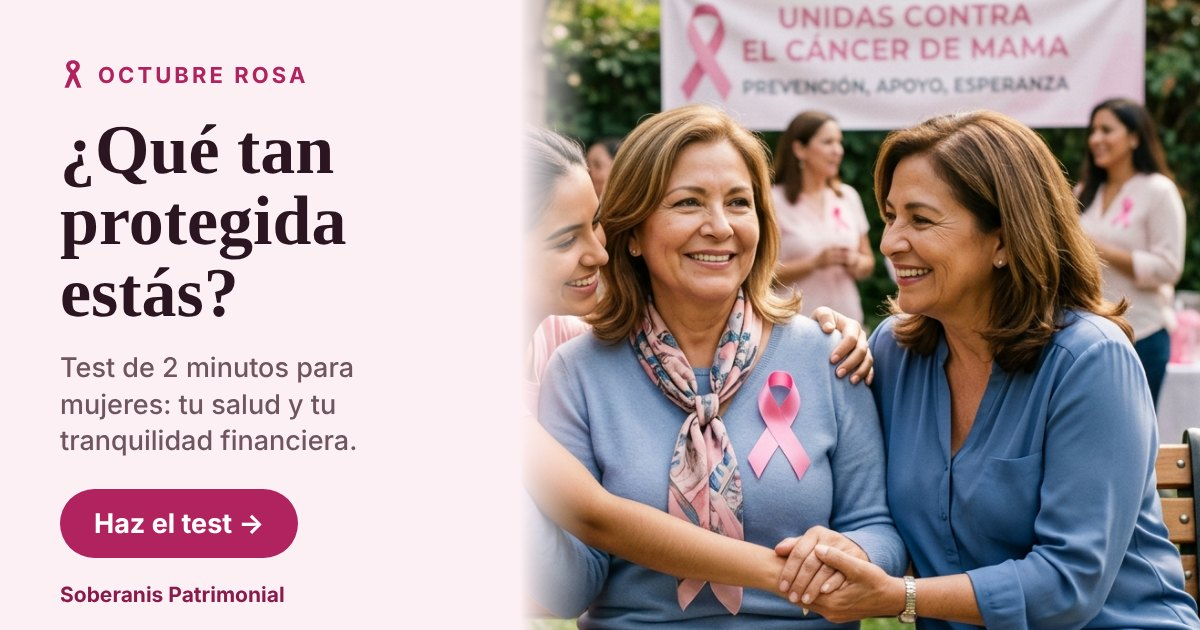
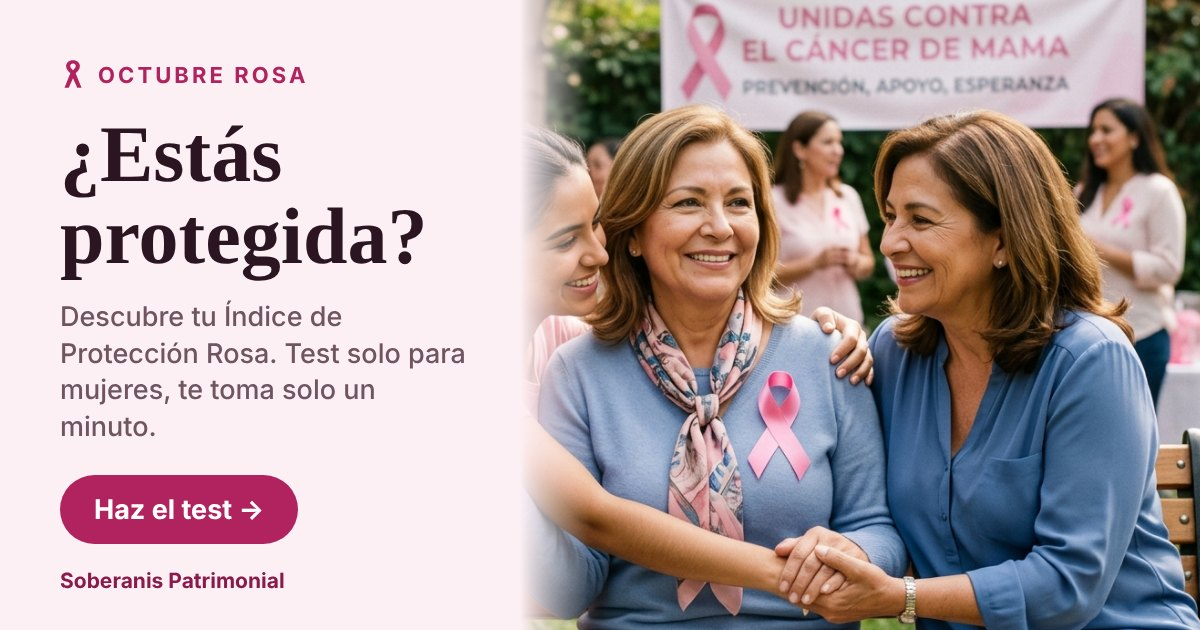
Add files via upload

diff --git a/index.html b/index.html
@@ -3,8 +3,8 @@
 <head>
 <meta charset="utf-8">
 <meta name="viewport" content="width=device-width,initial-scale=1,viewport-fit=cover">
-<title>¿Qué tan protegida estás? · Octubre Rosa</title>
-<meta name="description" content="Test de 2 minutos de Octubre Rosa: descubre tu Índice de Protección Rosa.">
+<title>¿Estás protegida? · Octubre Rosa</title>
+<meta name="description" content="Test de Octubre Rosa de solo un minuto: descubre tu Índice de Protección Rosa.">
 <meta name="theme-color" content="#b0235f">
 <link rel="canonical" href="https://yolandasoberanis.github.io/octubre-rosa/">
 <!-- Vista previa al compartir (WhatsApp, Facebook, LinkedIn, X) -->
@@ -12,8 +12,8 @@
 <meta property="og:locale" content="es_MX">
 <meta property="og:site_name" content="Soberanis Patrimonial">
 <meta property="og:url" content="https://yolandasoberanis.github.io/octubre-rosa/">
-<meta property="og:title" content="¿Qué tan protegida estás? · Test Octubre Rosa">
-<meta property="og:description" content="Test de 2 minutos: descubre tu Índice de Protección Rosa, tu salud y tu tranquilidad financiera.">
+<meta property="og:title" content="¿Estás protegida? · Test Octubre Rosa">
+<meta property="og:description" content="Descubre tu Índice de Protección Rosa: salud y tranquilidad financiera. Test solo para mujeres, te toma solo un minuto.">
 <meta property="og:image" content="https://yolandasoberanis.github.io/octubre-rosa/vista-previa-octubre-rosa.jpg">
 <meta property="og:image:secure_url" content="https://yolandasoberanis.github.io/octubre-rosa/vista-previa-octubre-rosa.jpg">
 <meta property="og:image:type" content="image/jpeg">
@@ -21,8 +21,8 @@
 <meta property="og:image:height" content="630">
 <meta property="og:image:alt" content="Mujeres unidas contra el cáncer de mama: prevención, apoyo y esperanza">
 <meta name="twitter:card" content="summary_large_image">
-<meta name="twitter:title" content="¿Qué tan protegida estás? · Test Octubre Rosa">
-<meta name="twitter:description" content="Test de 2 minutos: descubre tu Índice de Protección Rosa.">
+<meta name="twitter:title" content="¿Estás protegida? · Test Octubre Rosa">
+<meta name="twitter:description" content="Descubre tu Índice de Protección Rosa. Te toma solo un minuto.">
 <meta name="twitter:image" content="https://yolandasoberanis.github.io/octubre-rosa/vista-previa-octubre-rosa.jpg">
 <link rel="preload" as="image" href="campana-octubre-rosa.webp" type="image/webp">
 <link rel="preconnect" href="https://fonts.googleapis.com">
@@ -39,6 +39,7 @@ header span:last-child{font-weight:500;color:var(--muted);font-size:14px}
 h1,h2{font-family:Fraunces,Georgia,serif;line-height:1.12;margin:0 0 14px}
 h1{font-size:clamp(2.2rem,8vw,3.2rem)}
 h2{font-size:clamp(1.5rem,5vw,1.9rem)}
+#qtext{text-align:justify;hyphens:auto;-webkit-hyphens:auto}
 p{margin:0 0 16px}
 .lead{color:var(--muted);font-size:1.08rem}
 .hero{display:block;width:100%;margin:0 0 24px;border-radius:22px;overflow:hidden;box-shadow:0 14px 34px -18px rgba(176,35,95,.55);background:var(--soft)}
@@ -97,8 +98,8 @@ input:focus{border-color:var(--brand);outline:none}
         <img src="campana-octubre-rosa.jpg" width="1408" height="768" alt="Tres mujeres sonríen y se toman de las manos en un jardín, con un lazo rosa y un cartel que dice: Unidas contra el cáncer de mama. Prevención, apoyo, esperanza." fetchpriority="high">
       </picture>
     </figure>
-    <h1>¿Qué tan protegida estás?</h1>
-    <p class="lead">Test de 2 minutos solo para mujeres. Descubre tu Índice de Protección Rosa: tu salud y tu tranquilidad financiera.</p>
+    <h1>¿Estás protegida?</h1>
+    <p class="lead">Descubre tu Índice de Protección Rosa: salud y tranquilidad financiera. Test solo para mujeres, te toma solo un minuto.</p>
     <button class="btn" id="start">Empezar el test</button>
     <div class="share" id="shareIntro">
       <p>Compártelo con otra mujer que quieras</p>
@@ -184,14 +185,15 @@ const CONFIG = {
 const QUESTIONS = [
   {q:"¿Qué edad tienes?", profile:true, o:[["Menos de 25 años",0],["25 a 34 años",0],["35 a 39 años",0],["40 a 49 años",0],["50 a 59 años",0],["60 años o más",0]]}, // no suma puntos
   {q:"¿Cuándo fue tu última revisión médica general?", o:[["En el último año",2],["Hace 1 a 3 años",1],["Hace más de 3 años o nunca",0]]},
-  {q:"¿Te haces la autoexploración de mamas?", o:[["Cada mes",2],["De vez en cuando",1],["Nunca o no sé cómo hacerla",0]]},
-  {q:"¿Te has hecho una mastografía o ultrasonido mamario? (según tu edad)", o:[["Sí, al día con mis estudios",2],["Una vez, hace tiempo",1],["Nunca",0]]},
-  {q:"¿Conoces tus antecedentes familiares de cáncer?", o:[["Sí, los conozco y los he hablado con mi médico",2],["Los conozco, pero no los he comentado",1],["No los conozco",0]]},
+  {q:"¿Te has realizado autoexploración de mamas?", o:[["Cada mes",2],["De vez en cuando",1],["Nunca o no sé cómo hacerla",0]]},
+  {q:"¿Te has realizado algún USG mamario y/o alguna mastografía?", o:[["Sí, al día con mis estudios",2],["Una vez, hace tiempo",1],["Nunca",0]]},
+  {q:"¿Tienes antecedentes heredofamiliares de cáncer?", o:[["Sí, los conozco y los he hablado con mi médico",2],["Los conozco, pero no los he comentado",1],["Lo desconozco",0]]},
   {q:"¿Cuentas con seguro de gastos médicos mayores?", o:[["Sí, vigente y lo conozco bien",2],["Solo seguridad social o una cobertura básica",1],["No tengo ninguno",0]]},
-  {q:"Si hoy tuvieras un diagnóstico grave, ¿podrías cubrir los gastos sin endeudarte?", o:[["Sí, tengo cómo hacerlo",2],["Parcialmente",1],["No",0]]},
+  {q:"Si desafortunadamente hoy te dieran un diagnóstico grave, ¿podrías cubrir los gastos?", o:[["Sí, tengo cómo hacerlo",2],["Parcialmente",1],["No",0]]},
   {q:"¿Tienes un fondo de emergencia?", o:[["Cubre 6 meses o más de gastos",2],["Cubre de 1 a 5 meses",1],["No tengo",0]]},
-  {q:"Si dejaras de trabajar por salud, ¿cuentas con protección de ingresos? (seguro de vida, invalidez, enfermedades graves)", o:[["Sí, tengo alguna",2],["Estoy evaluándolo",1],["No",0]]},
-  {q:"¿Tu familia sabría qué hacer y de cuánto dinero dispondría si algo te pasara?", o:[["Sí, está todo claro y por escrito",2],["Más o menos",1],["No lo han hablado",0]]}
+  {q:"Si desafortunadamente tuvieras que dejar tu trabajo por cuestiones de salud, ¿cuentas con protección de ingresos? (seguro de vida, invalidez, enfermedades graves)", o:[["Sí, tengo alguna",2],["Estoy evaluándolo",1],["No",0]]},
+  {q:"¿Tu familia podría apoyarte? ¿De cuánto dinero podría disponer si desafortunadamente algo te sucediera?", o:[["Sí, está todo claro y por escrito",2],["Más o menos",1],["No lo han hablado",0]]},
+  {q:"¿Sabías que existe un seguro especialmente para las mujeres, contra cáncer de mama y cáncer cervicouterino?", profile:true, o:[["No",0],["Sí",0],["Quiero conocer el seguro Vida Mujer",0]]} // no suma puntos
 ];
 
 const LEVELS = [
@@ -293,8 +295,8 @@ $("leadForm").addEventListener("submit", async e => {
 /* ---------- Compartir ---------- */
 function shareText(){
   return pct && level && !$("result").hidden
-    ? `Hice el test de Octubre Rosa y mi Índice de Protección Rosa fue ${pct}% (${level.name}). Haz el tuyo, son 2 minutos:`
-    : "¿Qué tan protegida estás? Haz el test de Octubre Rosa, son 2 minutos:";
+    ? `Hice el test de Octubre Rosa y mi Índice de Protección Rosa fue ${pct}% (${level.name}). Haz el tuyo, te toma solo un minuto:`
+    : "¿Estás protegida? Haz el test de Octubre Rosa, te toma solo un minuto:";
 }
 function toast(t){const el=$("toast");el.textContent=t;el.classList.add("on");setTimeout(()=>el.classList.remove("on"),2200);}
 document.querySelectorAll("[data-share]").forEach(el => {
